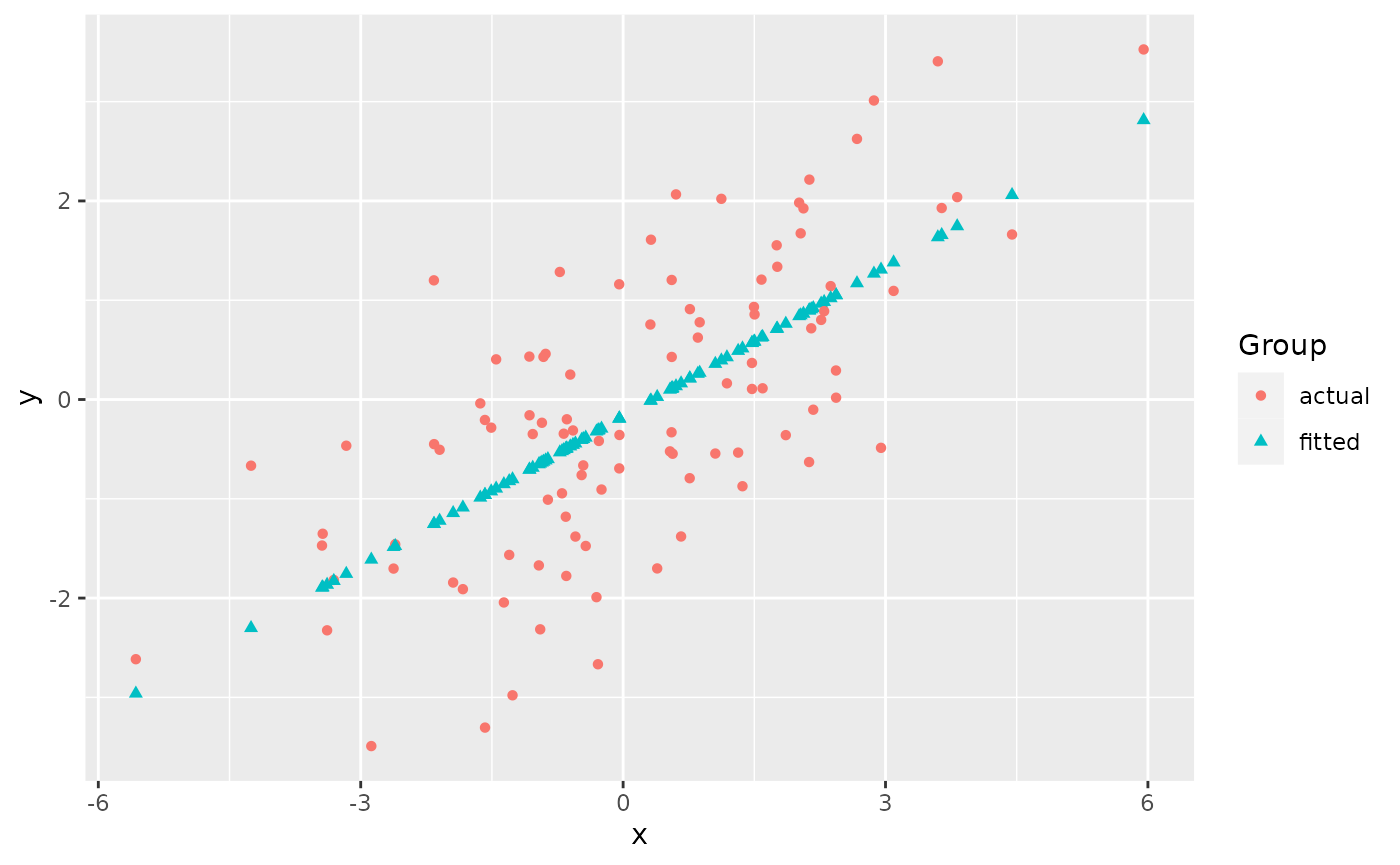
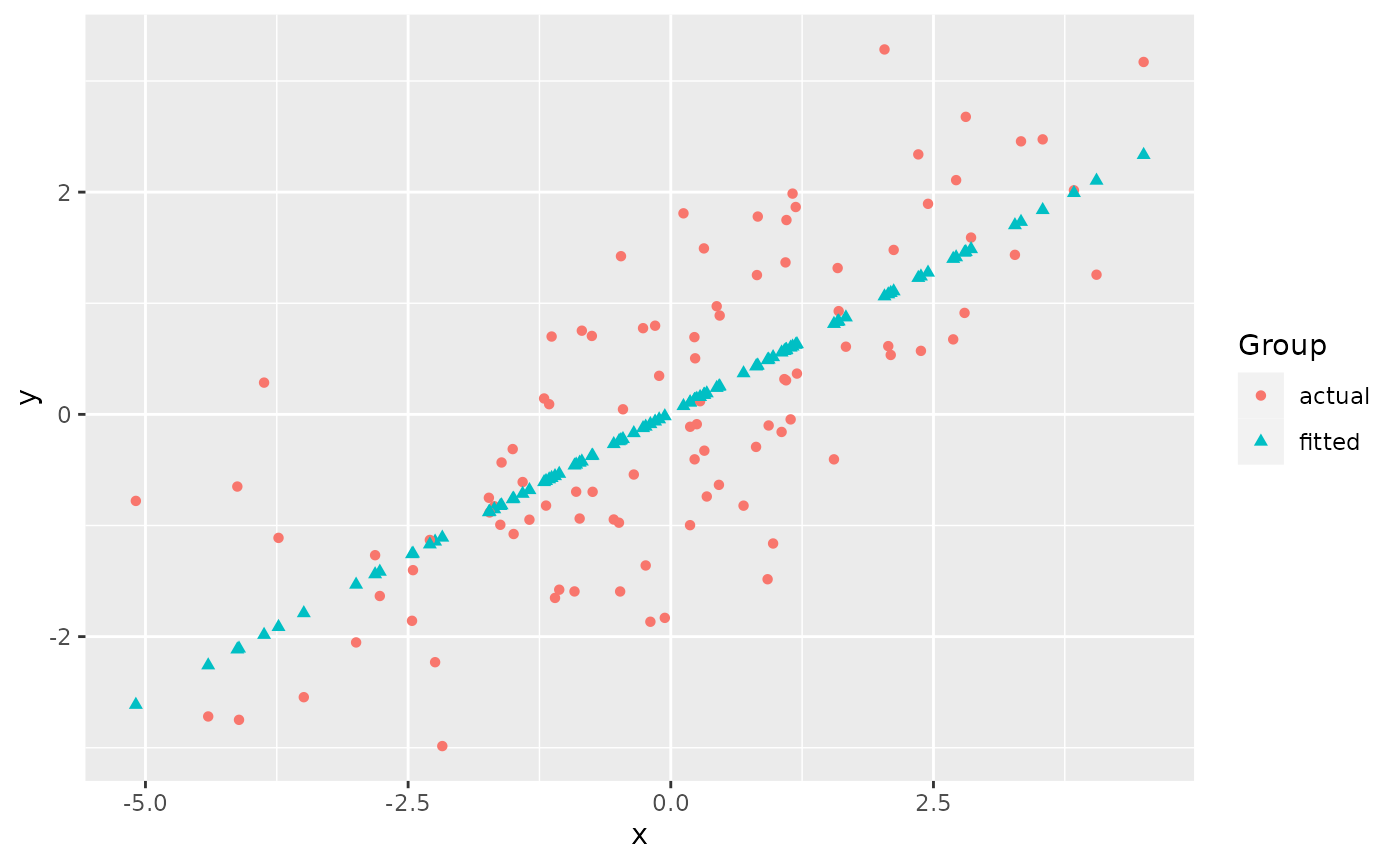
Built site for ggmatplot: 0.1.0@78c37b4

diff --git a/articles/ggmatplot.html b/articles/ggmatplot.html
@@ -101,7 +101,7 @@
 <span class="va">x</span> <span class="op">&lt;-</span> <span class="fu"><a href="https://rdrr.io/r/base/c.html">c</a></span><span class="op">(</span><span class="fu"><a href="https://rdrr.io/r/stats/Normal.html">rnorm</a></span><span class="op">(</span><span class="fl">100</span>, sd <span class="op">=</span> <span class="fl">2</span><span class="op">)</span><span class="op">)</span>
 
 <span class="fu"><a href="https://rdrr.io/r/utils/head.html">head</a></span><span class="op">(</span><span class="va">x</span><span class="op">)</span>
-<span class="co">#&gt; [1]  2.4337716 -1.3022121  0.3896129 -0.5733374  0.7613277  0.8544432</span>
+<span class="co">#&gt; [1] -0.9005524 -1.4957658 -0.7439320  1.1890467  0.4654829 -0.4820036</span>
 
 <span class="co"># matrix z</span>
 <span class="va">y</span> <span class="op">&lt;-</span> <span class="va">x</span> <span class="op">*</span> <span class="fl">0.5</span> <span class="op">+</span> <span class="fu"><a href="https://rdrr.io/r/stats/Normal.html">rnorm</a></span><span class="op">(</span><span class="fl">100</span>, sd <span class="op">=</span> <span class="fl">1</span><span class="op">)</span>
@@ -110,13 +110,13 @@
            fitted <span class="op">=</span> <span class="va">fit.y</span><span class="op">)</span>
 
 <span class="fu"><a href="https://rdrr.io/r/utils/head.html">head</a></span><span class="op">(</span><span class="va">z</span><span class="op">)</span>
-<span class="co">#&gt;       actual      fitted</span>
-<span class="co">#&gt; 1  0.2922115  1.05090923</span>
-<span class="co">#&gt; 2 -1.5651581 -0.82189242</span>
-<span class="co">#&gt; 3 -1.7013217  0.02619819</span>
-<span class="co">#&gt; 4 -0.3116226 -0.45651668</span>
-<span class="co">#&gt; 5 -0.7926089  0.21253417</span>
-<span class="co">#&gt; 6  0.6236743  0.25921175</span></code></pre></div>
+<span class="co">#&gt;       actual     fitted</span>
+<span class="co">#&gt; 1 -0.6959982 -0.4515389</span>
+<span class="co">#&gt; 2 -1.0767140 -0.7585911</span>
+<span class="co">#&gt; 3 -0.6969382 -0.3707433</span>
+<span class="co">#&gt; 4  1.8659844  0.6264206</span>
+<span class="co">#&gt; 5  0.8893935  0.2531565</span>
+<span class="co">#&gt; 6 -1.5936999 -0.2356225</span></code></pre></div>
 <p><code>ggmatplot</code> plots vector <code>x</code> against each column of matrix <code>z</code> using the default <code>plot_type = "point"</code>. This will be represented on the resulting plot as two groups, identified using different shapes and colors.</p>
 <div class="sourceCode" id="cb2"><pre class="downlit sourceCode r">
 <code class="sourceCode R"><span class="kw"><a href="https://rdrr.io/r/base/library.html">library</a></span><span class="op">(</span><span class="va"><a href="https://github.com/xuan-liang/ggmatplot">ggmatplot</a></span><span class="op">)</span>
